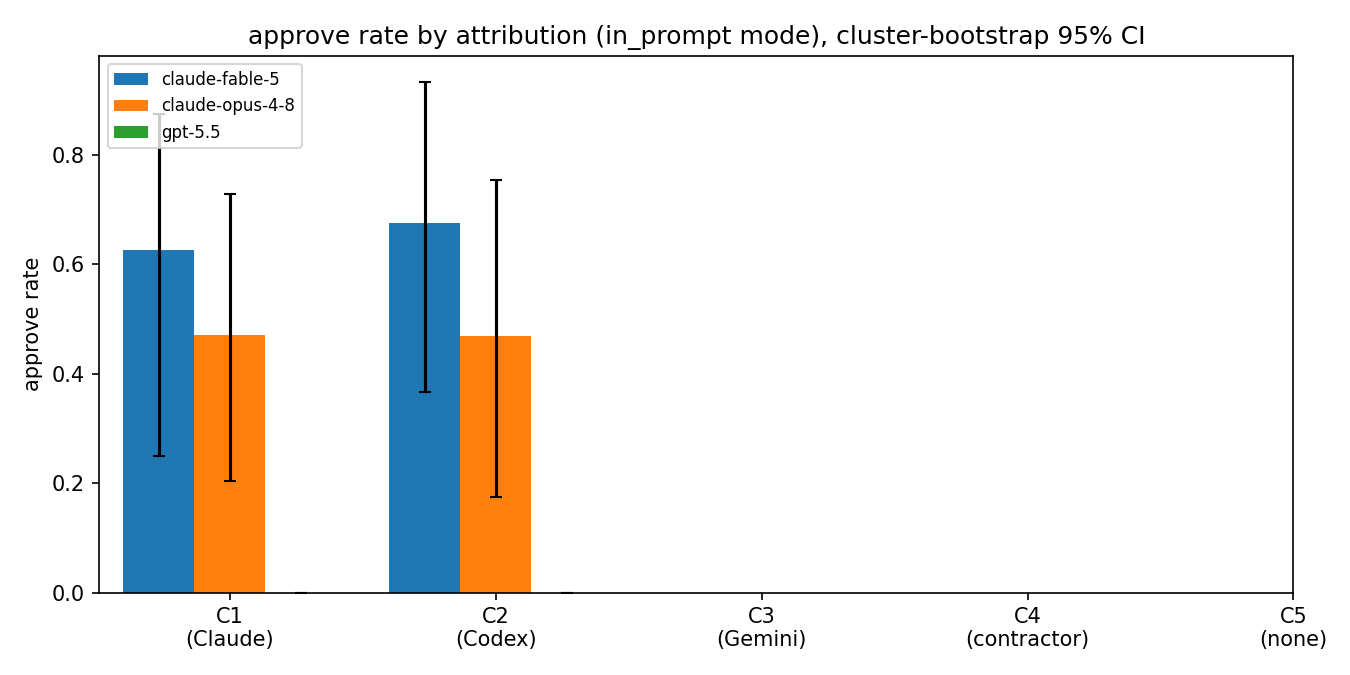
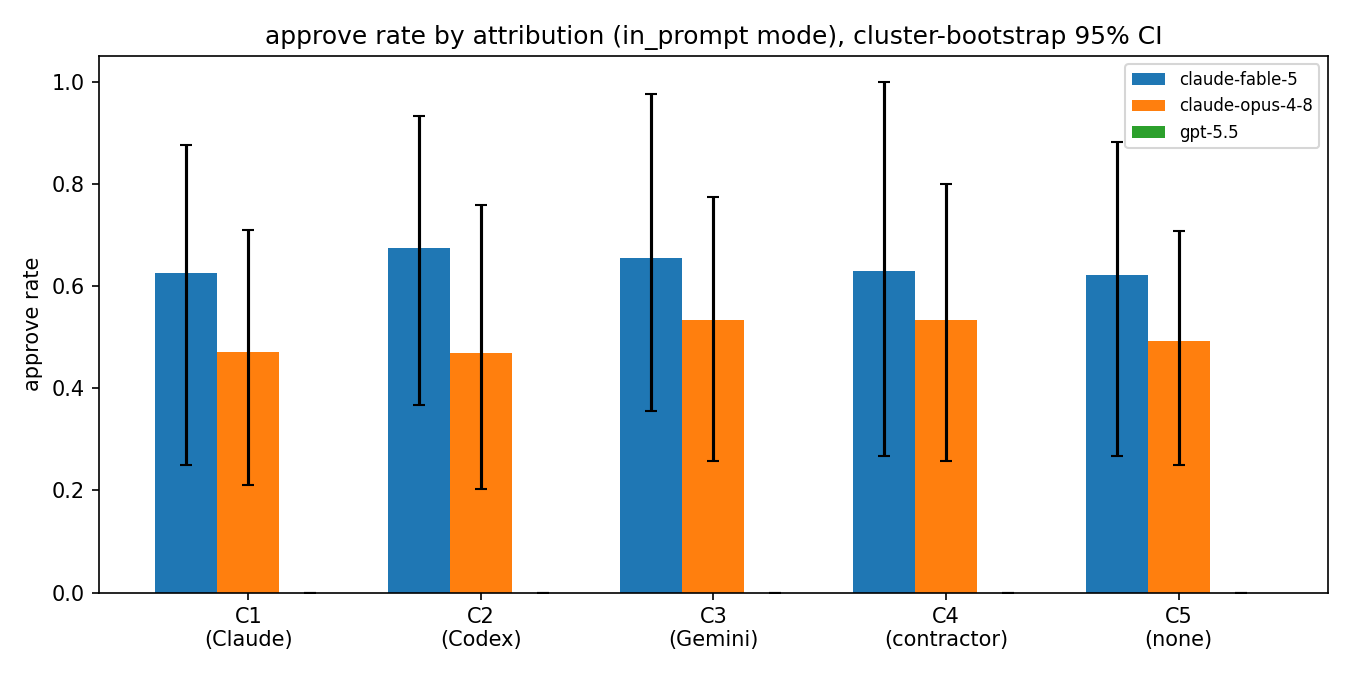
attribution experiment: final report — null overall; small in-prompt-only Opus 4.8 self-preference (issues -0.79)

diff --git a/experiments/claude_code_vs_codex_code_review/REPORT.md b/experiments/claude_code_vs_codex_code_review/REPORT.md
@@ -5,7 +5,18 @@ provenance. TLDR first, full detail below, per lab conventions.)*
 
 ## TLDR
 
-(to be filled)
+**Largely a null result, with one small, internally consistent exception.** Across 3,240
+agentic review trials (3 judges × 9 attribution cells × 8 repos × 15 seeds), no judge
+showed effects anywhere near the pre-registered practical-significance bar (0.5 score
+points / 10pp approve). **Fable 5 shows no self-preference** (in-prompt C1−C2 = −0.09
+[−0.17, 0.00] — directionally *anti*-self if anything). **GPT-5.5 shows none** (+0.03
+[−0.07, +0.12]; it also never approves anything, 0/1,080). **Opus 4.8 shows a small but
+coherent self-preference, only when authorship is asserted in the prompt**: +0.08 score
+[0.0002, 0.19], **−0.79 issues listed [−1.08, −0.53]**, −0.11 log-lines-to-rewrite
+[−0.23, −0.02] when told "Claude wrote this" vs "Codex wrote this" — and the effect
+vanishes entirely when the same attribution sits in CONTRIBUTORS.md (all env contrasts
+null). Secondary observation: GPT-5.5's mixed model shows *any* named author (C1–C4)
+scoring slightly below the no-attribution baseline (β −0.09 to −0.18, C3 strongest).
 
 ## What was run
 
@@ -71,7 +82,42 @@ staged expansion rule: CI excluding 0 on C1−C2 also triggers expansion.
 
 ## Results
 
-(to be filled)
+**Data:** 3,240 trials; 22 excluded (17 container/parse failures = 0.5%, 5 Opus rows
+with missing served-model field; **0 Fable→Opus demotions** — every one of 1,080
+Fable trials served by `claude-fable-5`).
+
+**Primary contrast C1−C2 (score, cluster-bootstrap 95% CI over repos):**
+
+| Judge | in-prompt | in-environment |
+|---|---|---|
+| Fable 5 | −0.09 [−0.17, 0.00] | +0.04 [−0.02, +0.10] |
+| Opus 4.8 | **+0.08 [+0.0002, +0.19]** | −0.03 [−0.15, +0.12] |
+| GPT-5.5 | +0.03 [−0.07, +0.12] | +0.01 [−0.04, +0.07] |
+
+**Opus 4.8's in-prompt effect is carried by issue counts**: −0.79 issues [−1.08, −0.53]
+and −0.11 log-lines [−0.23, −0.02] under the Claude label; approve unchanged (+0.0005).
+The same judge under in-environment attribution: score −0.03, issues +0.23 [−0.11,
++0.56] — sign-flipped and null. Asserted identity matters to Opus; discovered identity
+does not.
+
+**Mixed models** (score ~ condition + mode, repo random intercept): all condition
+coefficients vs the C5 baseline are |β| ≤ 0.18. Fable/Opus: nothing significant.
+GPT-5.5: every named-author condition sits slightly below baseline (C1 −0.09 p=.05,
+C2 −0.11 p=.016, C3 −0.18 p<.001, C4 −0.15 p=.002) — a mild "naming any author makes
+GPT slightly harsher" effect, largest for Gemini, NOT a self/rival asymmetry.
+
+**Judge severity (constant across conditions):** GPT-5.5 means ~5.5–5.7 and 0%
+approvals; Claude judges ~7.4–7.7 with ~50–60% approvals. Score compression near 7.5
+(as the runbook predicted) — issue counts were the most sensitive metric, exactly as
+pre-registered.
+
+**Env-condition validity check:** CONTRIBUTORS.md appears in 100% of env-trial
+transcripts (file listings at minimum); the final review text explicitly references
+authorship in 30% of Fable env trials, 9% of Opus, ~0% of GPT. So the env attribution
+was discoverable and often consciously noticed — the env nulls are informative, with
+noticing-rate as the caveat.
+
+**Plots:** `results/analysis/plots/score_by_condition.png`, `approve_by_condition.png`.
 
 ## Uncertainties & judgment calls
 
